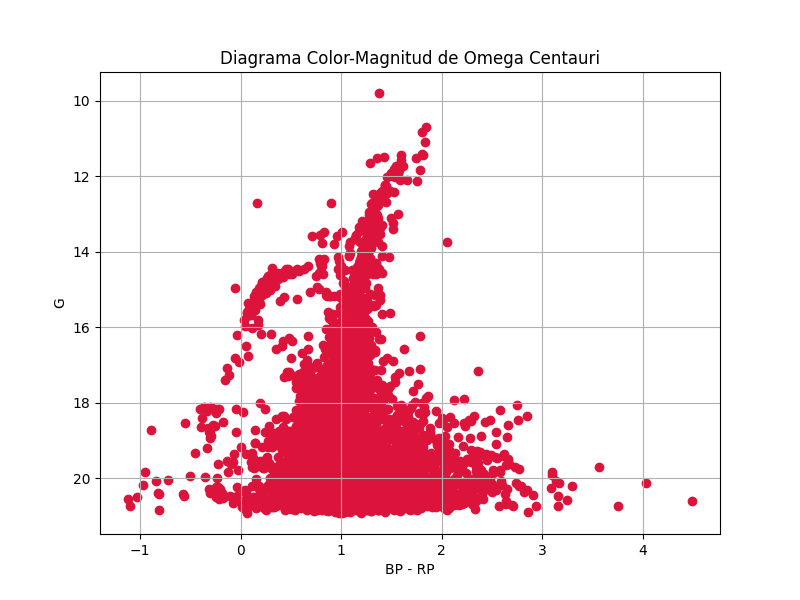
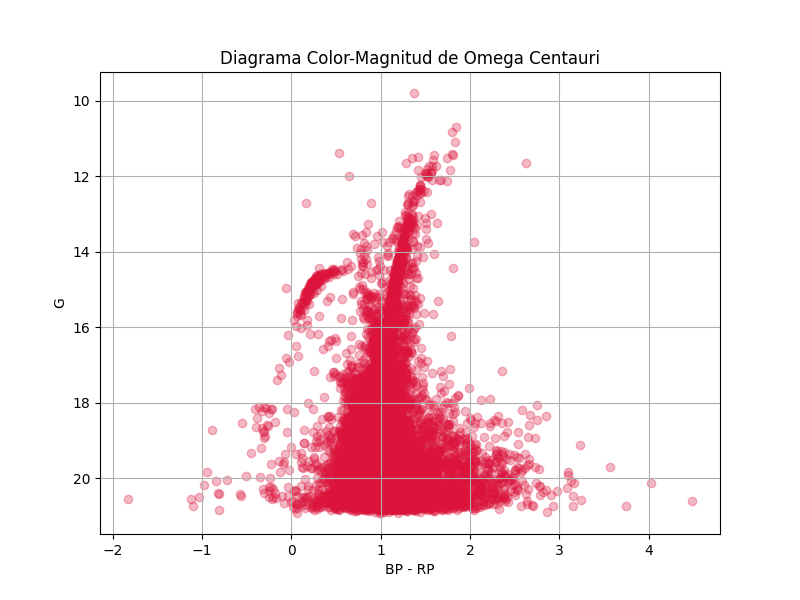
Mejoras gráficas

diff --git a/3_analisis.py b/3_analisis.py
@@ -7,7 +7,7 @@ df=pd.read_sql('SELECT * FROM estrellas', arqueo)
 
 #Diagrama racimo completo
 plt.figure(figsize=(8, 6))
-plt.scatter(df['pmRA'], df['pmDE'], color='purple')
+plt.scatter(df['pmRA'], df['pmDE'], color='purple', alpha=0.2, s=4)
 plt.xlabel('pmRA')
 plt.ylabel('pmDE')
 plt.title('Movimiento propio de Omega Centauri')
@@ -16,12 +16,12 @@ plt.savefig('mov_propio.png')
 print("Análisis completado. Se guarda la imagen en mov_propio.png")
 
 #Filtro SQL avanzado
-df_filtro=pd.read_sql('SELECT * FROM estrellas WHERE pmRA BETWEEN -8 AND 2 AND pmDE BETWEEN -12 AND -2', arqueo)
+df_filtro=pd.read_sql('SELECT * FROM estrellas WHERE pmRA BETWEEN -8 AND 2 AND pmDE BETWEEN -10 AND 1', arqueo)
 
 #Diagrama racimo filtrado de color-magnitud
 df_filtro['color_BP_RP']=df_filtro['BPmag']-df_filtro['RPmag']
 plt.figure(figsize=(8, 6))
-plt.scatter(df_filtro['color_BP_RP'], df_filtro['Gmag'], color='crimson')
+plt.scatter(df_filtro['color_BP_RP'], df_filtro['Gmag'], color='crimson', alpha=0.3)
 plt.gca().invert_yaxis()
 plt.xlabel('BP - RP')
 plt.ylabel('G')
